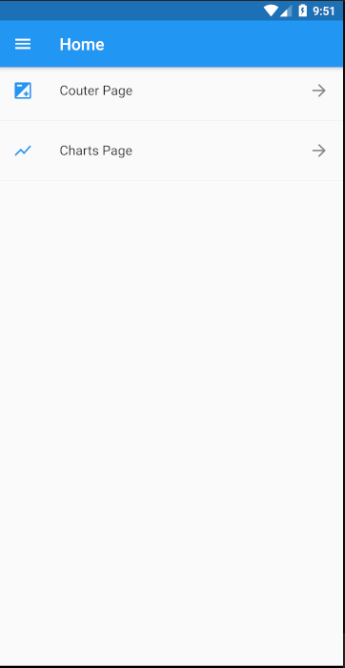
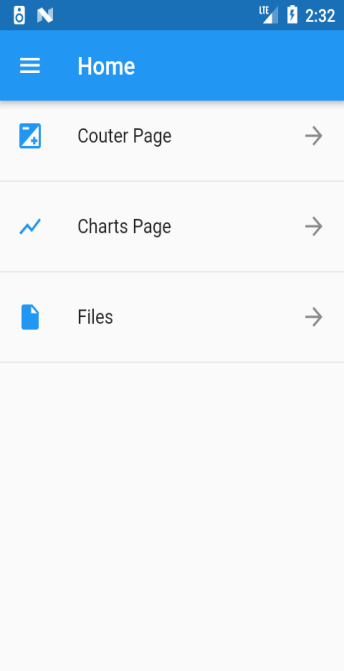
Screenshots are added.

diff --git a/README.md b/README.md
@@ -11,3 +11,9 @@ Project to view and test flutter features
 
 ![Image3](docs/img/counter.png) 
 ![Image4](docs/img/charts.png)
+
+![Image4](docs/img/files.png)
+![Image4](docs/img/permissions.png)
+![Image4](docs/img/create-txt-file.png)
+![Image4](docs/img/create-xlsx-file.png)
+![Image4](docs/img/xlsx.png)
